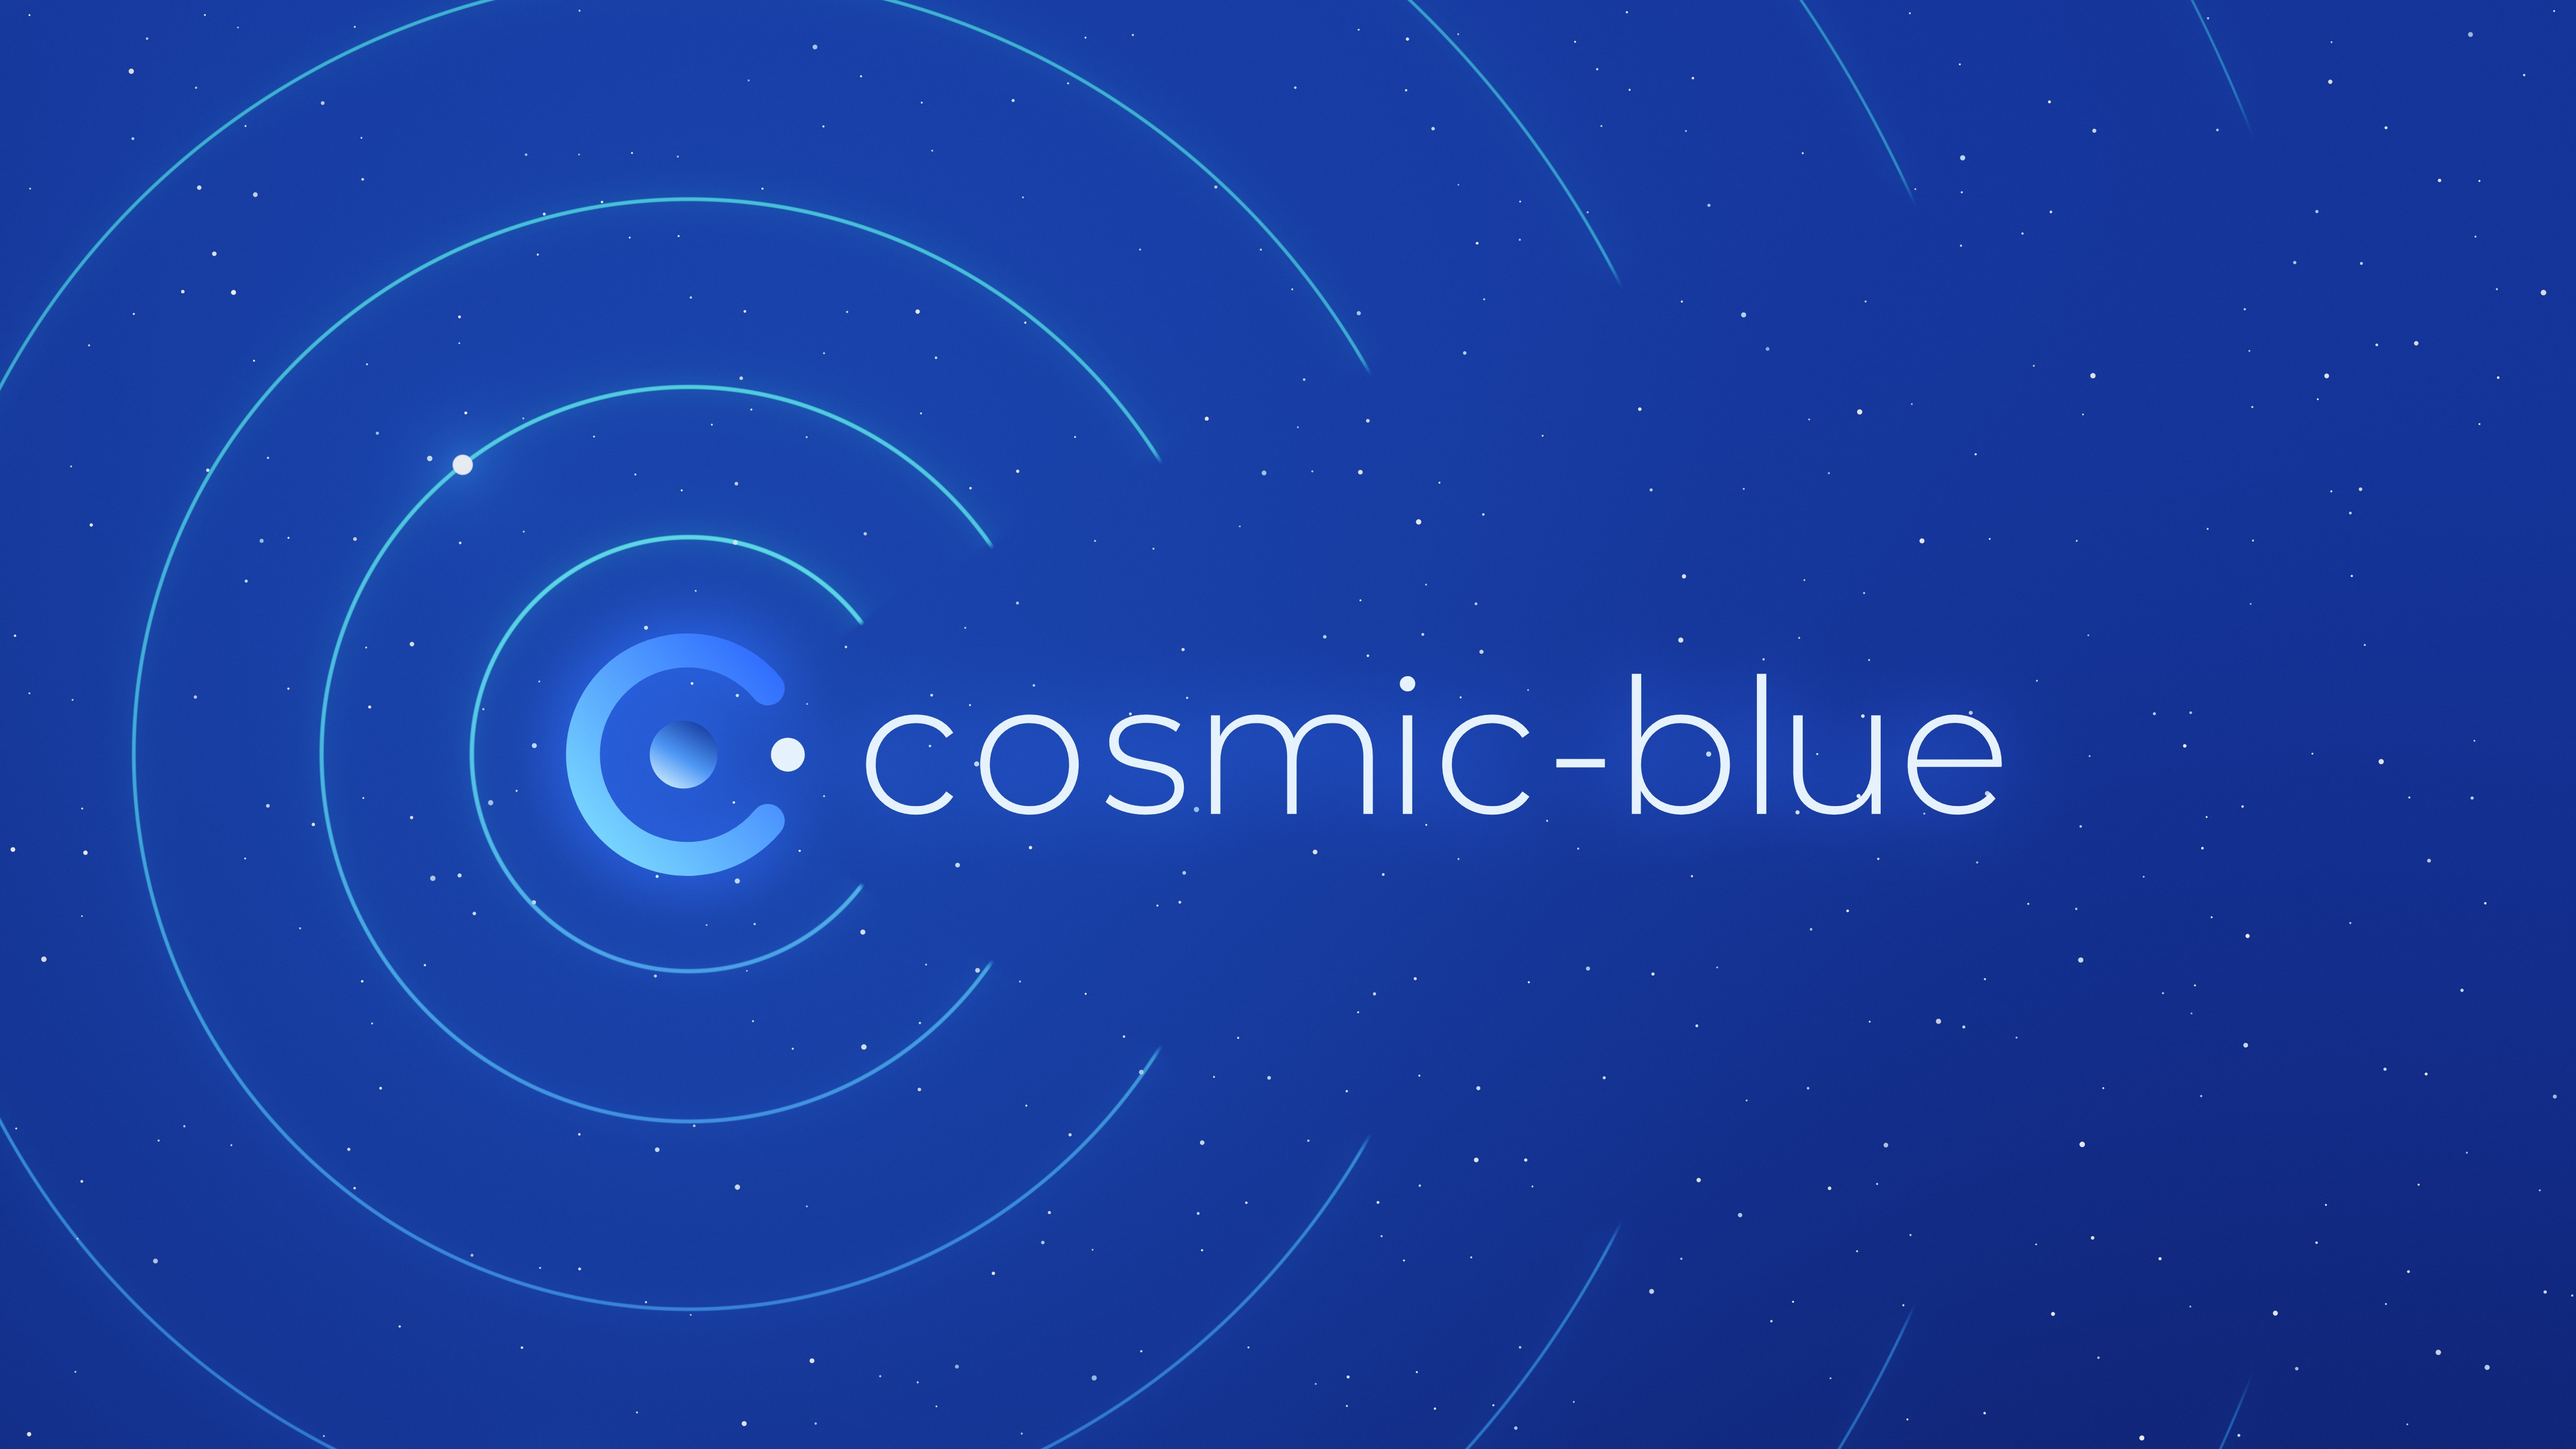
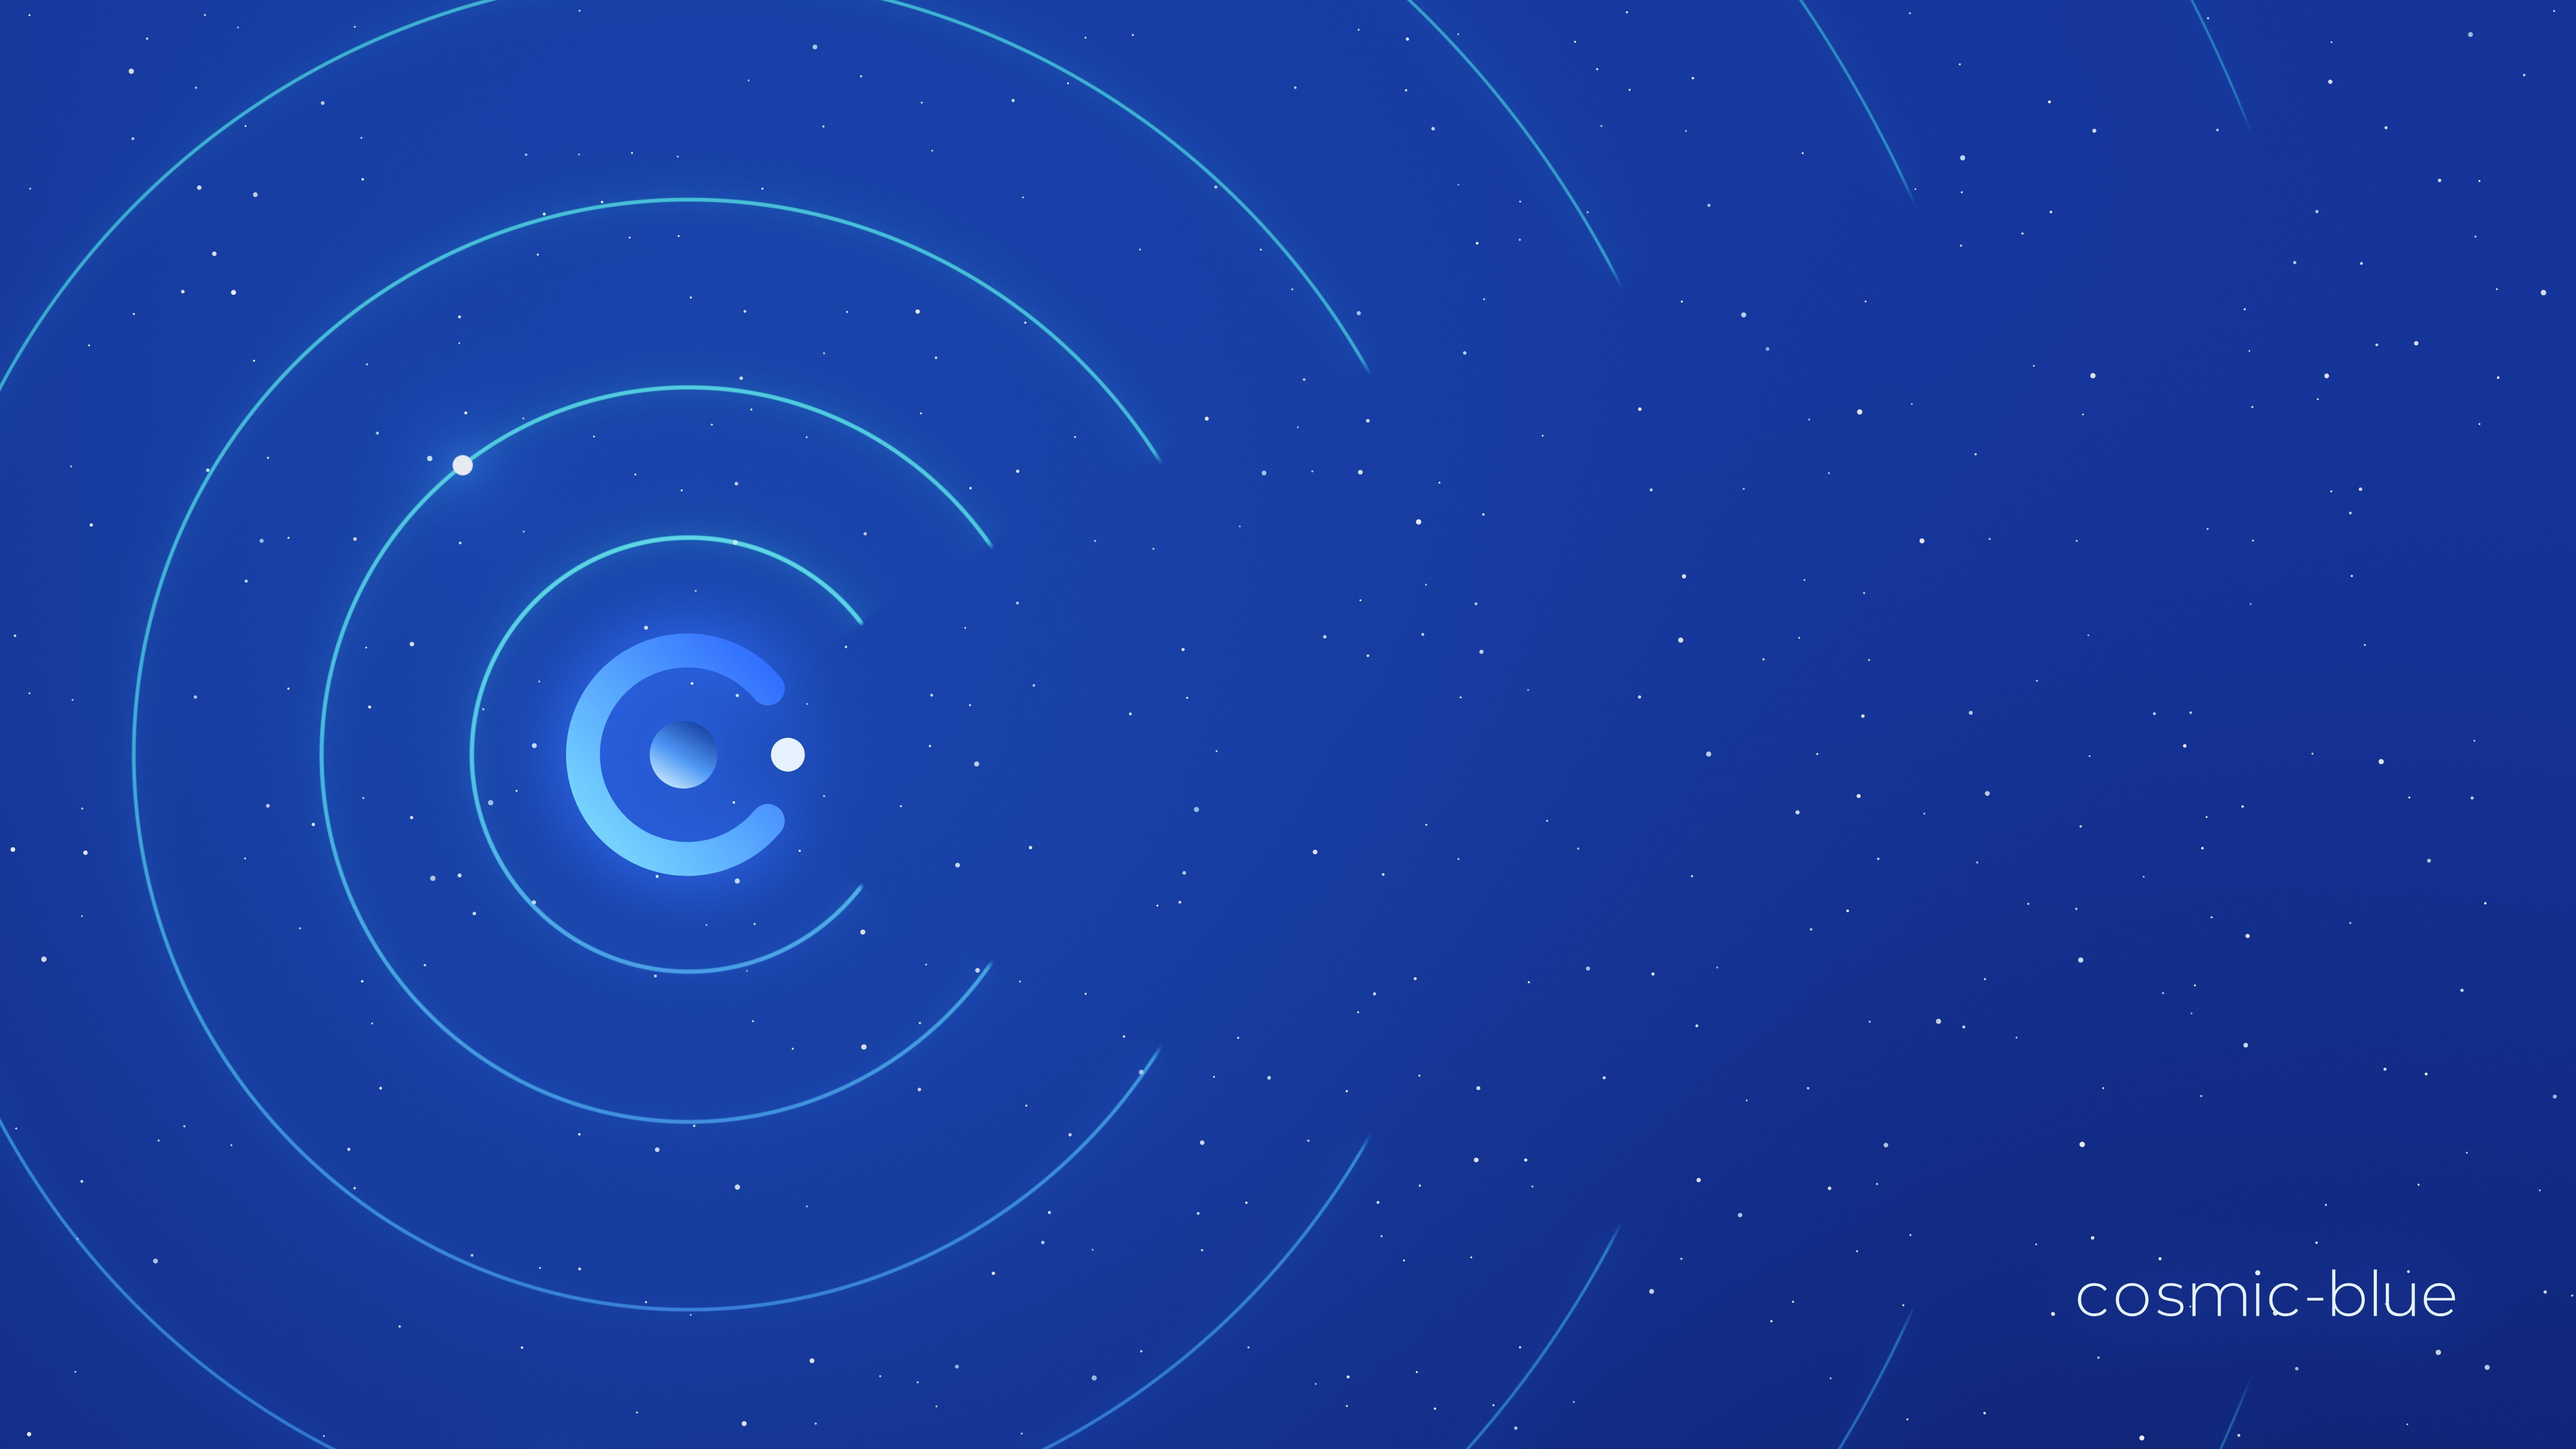
Wallpapers: name small in a corner of the default, emblem becomes a plain spiral (#160)
The default (cosmic-blue-arcs.jpg) keeps the logo mark and its echoing orbits where they were; the name moves, smaller, to the bottom right corner, clear of the dock. The emblem is replaced by cosmic-blue-deep-spiral.jpg, a tone-on-tone spiral with stars and no text. logo_mark.py replaces logo_name.py, spiral.frag replaces constellation.frag, name.py is removed; tests, build.sh and the branding README follow.

Claude-Session: https://claude.ai/code/session_01MxskLHwVa2NScURFJ3Lymb

diff --git a/branding/wallpaper/logo_mark.py b/branding/wallpaper/logo_mark.py
@@ -1,0 +1,67 @@
+#!/usr/bin/env python3
+"""Draw the logo mark (orbit, planet, moon) and optionally the name over a
+rendered background, with a soft blue glow.
+Usage: logo_mark.py BACKGROUND.png OUT.jpg [none|corner|below]
+The mark sits at MARK (pixels), its orbit radius is 40 * SCALE pixels: keep
+LOGO and R of shaders/echoes.frag in step (see defines()).
+Needs numpy, pillow and scipy, and node with playwright (render.js).
+"""
+import subprocess
+import sys
+import tempfile
+from pathlib import Path
+
+import numpy as np
+from PIL import Image
+from scipy.ndimage import gaussian_filter
+
+W, H = 5120, 2880
+# where the mark sat in the horizontal logo, centred 60 px below the middle
+SCALE = 2900 / 559.7
+MARK = (W / 2 - 559.7 * SCALE / 2 + 50 * SCALE, H / 2 + 60)
+
+
+def defines():
+    """Shader defines that centre the echoes on the mark."""
+    x, y = (MARK[0] - W / 2) / H, (H / 2 - MARK[1]) / H
+    return f"#define LOGO vec2({x:.4f}, {y:.4f})\n#define R {40 * SCALE / H:.4f}"
+
+
+def main():
+    here = Path(__file__).parent
+    bg_path, out = sys.argv[1:3]
+    text_mode = sys.argv[3] if len(sys.argv) > 3 else "none"
+    logo = (here / "../logo/cosmic-blue-logo-horizontal-dark.svg").read_text()
+    defs = logo[logo.index("<defs>"):logo.index("</defs>") + 7]
+    icon = logo[logo.index('<g transform="translate(50 50)">') + 32:logo.index('</g><g transform="translate(118')]
+    text = logo[logo.index('<g transform="translate(118'):logo.rindex("</svg>")]
+    parts = [f'<g transform="translate({MARK[0]:.1f} {MARK[1]:.1f}) scale({SCALE:.4f})">{icon}</g>']
+    if text_mode != "none":
+        width = 760 if text_mode == "corner" else 1150
+        k = width / (559.7 - 118)
+        if text_mode == "corner":   # bottom right, clear of the dock
+            x0, y0 = W - 230 - width - 118 * k, H - 250 - 81 * k
+        else:                       # centred under the mark
+            x0, y0 = MARK[0] - width / 2 - 118 * k, MARK[1] + 47 * SCALE + 170 - 19 * k
+        parts.append(f'<g transform="translate({x0:.1f} {y0:.1f}) scale({k:.4f})">{text}</g>')
+    svg = (f'<svg xmlns="http://www.w3.org/2000/svg" viewBox="0 0 {W} {H}">{defs}'
+           + "".join(parts) + "</svg>")
+    with tempfile.TemporaryDirectory() as tmp:
+        (Path(tmp) / "mark.svg").write_text(svg)
+        subprocess.run(["node", str(here / "render.js"), f"{tmp}/mark.svg", f"{tmp}/mark.png"], check=True)
+        fg = np.asarray(Image.open(f"{tmp}/mark.png").convert("RGBA")).astype(np.float32) / 255
+    bg = np.asarray(Image.open(bg_path).convert("RGB")).astype(np.float32) / 255
+    a = fg[..., 3:4]
+    glow = gaussian_filter(a[..., 0], 70)[..., None]
+    img = bg + glow * np.array([79, 141, 255], np.float32) / 255 * .45
+    img = img * (1 - a) + fg[..., :3] * a
+    img = np.clip(img, 0, 1) * 255
+    img += np.random.default_rng(1).normal(0, .8, img.shape[:2])[..., None]
+    Image.fromarray(np.clip(img, 0, 255).astype(np.uint8)).save(out, quality=90, optimize=True)
+
+
+if __name__ == "__main__":
+    if sys.argv[1:] == ["--defines"]:
+        print(defines())
+    else:
+        main()

diff --git a/branding/README.md b/branding/README.md
@@ -34,14 +34,12 @@ Regenerate the SVGs with `python3 logo/build.py`.
 
 All 5120x2880, in `system_files/usr/share/backgrounds/cosmic-blue/`:
 
-- `cosmic-blue-arcs.jpg`: the official logo with the full name, its orbit
-  echoing outwards in fainter arcs (`wallpaper/shaders/echoes.frag`,
-  `wallpaper/logo_name.py`), the default COSMIC
-  wallpaper and the greeter background
-- `cosmic-blue-emblem.jpg`: a flat illustration, a tone-on-tone spiral and a
-  constellation drawing the "c" of the logo above the full name in the
-  logo's lettering (`wallpaper/shaders/constellation.frag`,
-  `wallpaper/name.py`), offered in Settings
+- `cosmic-blue-arcs.jpg`: the logo mark, left of centre, its orbit
+  echoing outwards in fainter arcs, and the name small in the bottom right
+  corner (`wallpaper/shaders/echoes.frag`, `wallpaper/logo_mark.py`), the
+  default COSMIC wallpaper and the greeter background
+- `cosmic-blue-deep-spiral.jpg`: a flat illustration, a calm night-blue field
+  with a large tone-on-tone spiral and small round stars, offered in Settings
 - `cosmic-blue-galaxy.jpg`: a tilted spiral galaxy, offered in Settings
 - `cosmic-blue-galactic-river.jpg`: a diagonal river of stars and gas, offered in
   Settings
@@ -60,7 +58,7 @@ All 5120x2880, in `system_files/usr/share/backgrounds/cosmic-blue/`:
 
 COSMIC Settings lists the wallpapers in the order of the folders on disk
 (alphabetical in the deployed image), so the file names put the current set
-first: the default (arcs), the emblem, then the others, and the older wallpapers
+first: the default (arcs), the deep spiral, then the others, and the older wallpapers
 (`milky-way`, `orbits`, `waves`, the logo scene) after them. The build moves
 COSMIC's own wallpapers to `/usr/share/backgrounds/cosmic-desktop` so that they
 come after ours (`build_files/20-cosmic.sh`).
